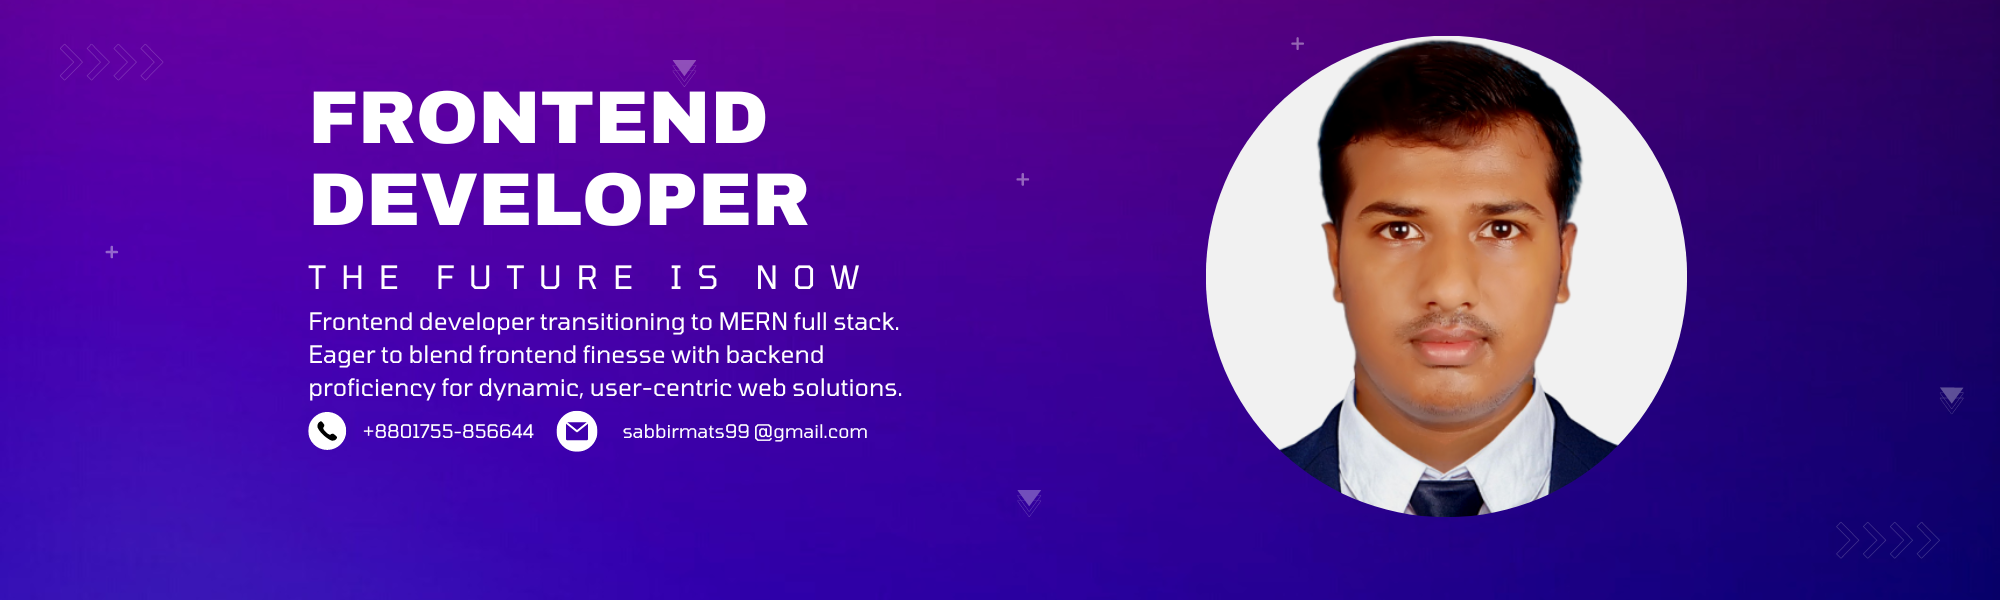
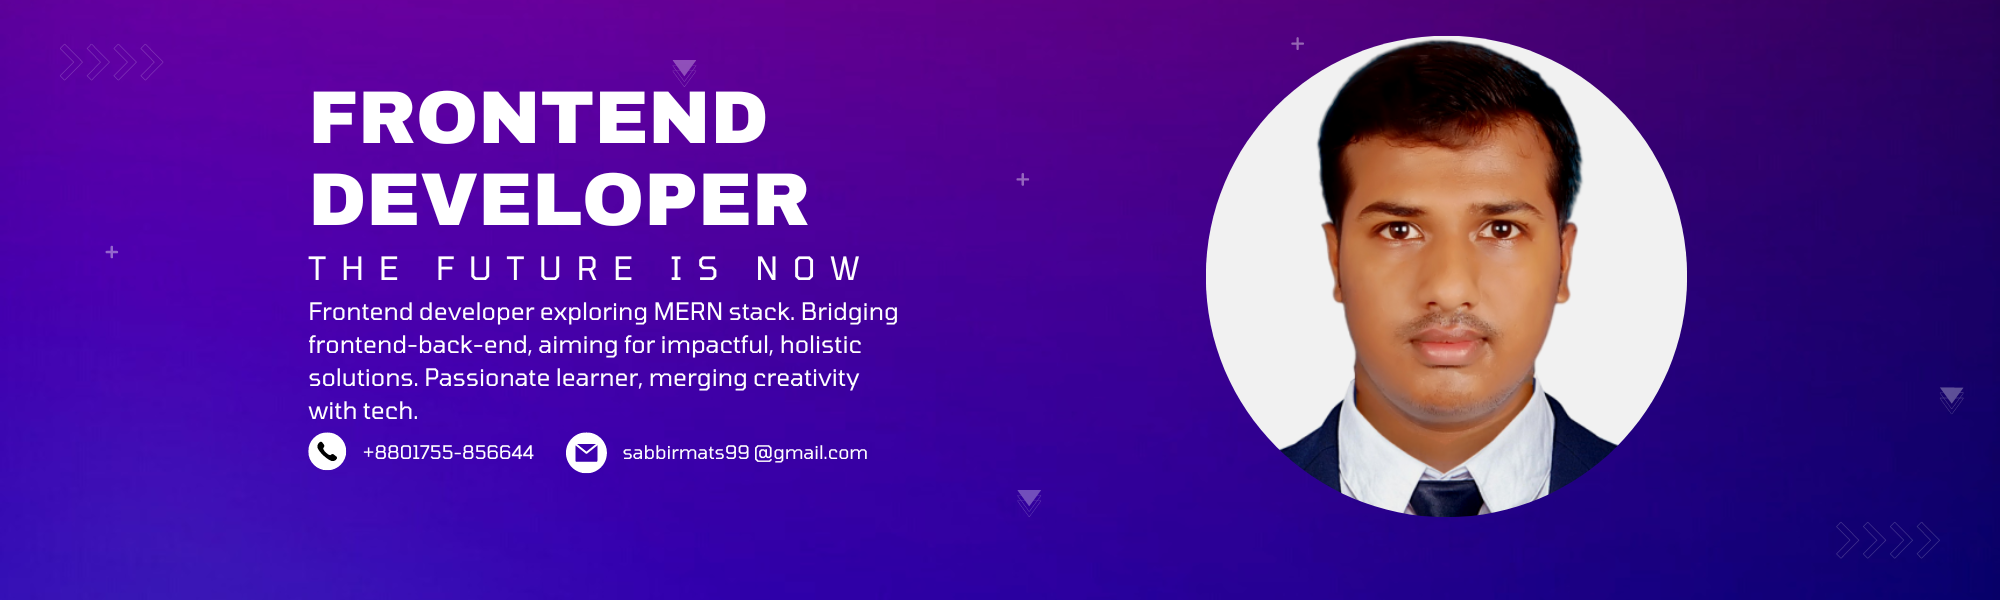
update profile

Changed region(s): [[0.155, 0.51, 0.465, 0.78], [0.155, 0.42, 0.434, 0.48]]

diff --git a/README.md b/README.md
@@ -1,1 +1,27 @@
-![banner](/image/linkdin%20banner.png)
+![banner](/image/linkdin%20banner1.png)
+
+# I'm a passionate Frontend Developer with expertise in:
+
+- Frontend Development 🌐
+- MERN Stack 🛠
+- Tailwind CSS 💻
+
+
+
+### 📈 GitHub Stats
+![Your GitHub stats](https://github-readme-stats.vercel.app/api?username=Sabbir6644&show_icons=true&theme=radical)
+
+### 🛠 Skills
+![JavaScript](https://img.shields.io/badge/-JavaScript-F7DF1E?style=flat&logo=JavaScript&logoColor=black)
+![React](https://img.shields.io/badge/-React-61DAFB?style=flat&logo=React&logoColor=black)
+![Node.js](https://img.shields.io/badge/-Node.js-339933?style=flat&logo=Node.js&logoColor=white)
+![Express.js](https://img.shields.io/badge/-Express.js-000000?style=flat&logo=Express&logoColor=white)
+![MongoDB](https://img.shields.io/badge/-MongoDB-47A248?style=flat&logo=MongoDB&logoColor=white)
+
+
+
+
+### 🤝 Let's Connect!
+Feel free to connect with me on LinkedIn for professional networking and more insights into my work.
+
+[![LinkedIn](https://img.shields.io/badge/-LinkedIn-blue?style=flat&logo=LinkedIn&logoColor=white)](https://www.linkedin.com/in/sabbir-ahmed-0630651a2/)
